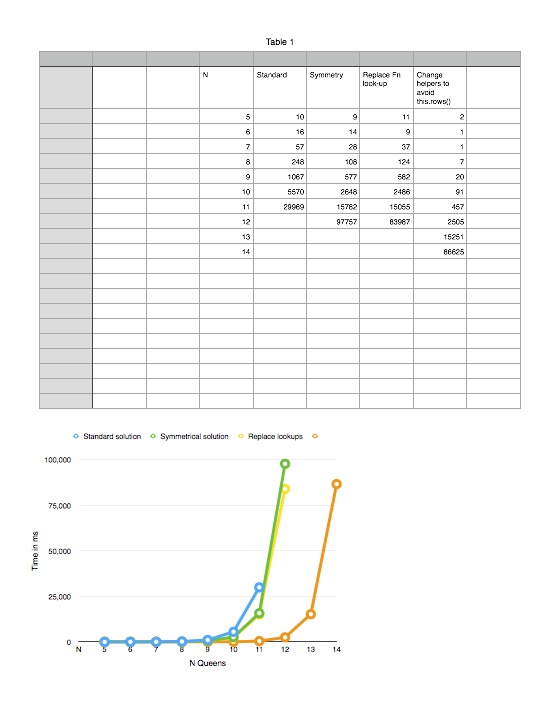
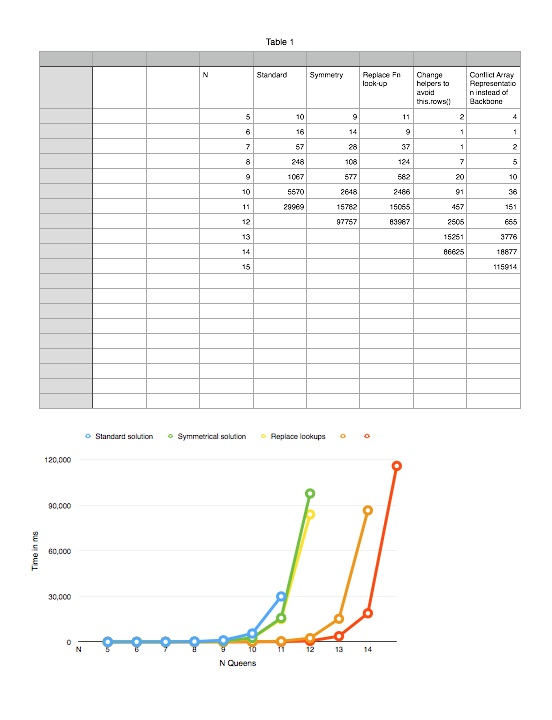
Replace matrix representation with conflict object model, remove backbone dependencies

diff --git a/src/solvers.js b/src/solvers.js
@@ -13,6 +13,36 @@
 
 // return a matrix (an array of arrays) representing a single nxn chessboard, with n rooks placed such that none of them can attack each other
 
+var myBoard = function() {
+  this.colCon = {};
+  this.majCon = {};
+  this.minCon = {};
+  this.rowCon = {};
+};
+
+myBoard.prototype.toggle = function (row, col) {
+  this.colCon[col] = !this.colCon[col];
+  this.majCon[col-row] = !this.majCon[col-row];
+  this.minCon[col+row] = !this.minCon[col+row];
+  this.rowCon[row] = !this.rowCon[row];
+};
+
+myBoard.prototype.hasRowConflictAt = function(row) {
+  return !!this.rowCon[row];
+};
+
+myBoard.prototype.hasColConflictAt = function(col) {
+  return !!this.colCon[col];
+};
+
+myBoard.prototype.hasMajorDiagonalConflictAt = function(row, col) {
+  return !!this.majCon[col-row];
+};
+
+myBoard.prototype.hasMinorDiagonalConflictAt = function(row, col) {
+  return !!this.minCon[col+row];
+};
+
 window.findNRooksSolution = function(n) {
   var solution;
 
@@ -48,7 +78,7 @@ window.findNRooksSolution = function(n) {
 window.countNRooksSolutions = function(n) {
   var solutionCount = 0;
 
-  var curBoard = new Board({'n': n});
+  var curBoard = new myBoard();
 
   var placeElemInRow = function(curCol) {
     if (curCol === n){
@@ -56,19 +86,19 @@ window.countNRooksSolutions = function(n) {
       return;
     }
     for (var curRow = 0; curRow < n; curRow++){
-      curBoard.togglePiece(curRow, curCol);
       if (!curBoard.hasRowConflictAt(curRow)){
+        curBoard.toggle(curRow, curCol);
         placeElemInRow(curCol + 1);
+        curBoard.toggle(curRow, curCol);
       }
-      curBoard.togglePiece(curRow, curCol);
     }
   };
 
   // manually loop over first column for n/2 rows
   for(var i = 0; i < Math.floor(n/2); i++){
-    curBoard.togglePiece(i, 0);
+    curBoard.toggle(i, 0);
     placeElemInRow(1);
-    curBoard.togglePiece(i, 0);
+    curBoard.toggle(i, 0);
   }
 
   // doubling to account for symmetry
@@ -77,9 +107,9 @@ window.countNRooksSolutions = function(n) {
 
     // if odd, recurse over placement in median row
     if((n % 2) === 1) {
-      curBoard.togglePiece(Math.ceil(n/2), 0);
+      curBoard.toggle(Math.ceil(n/2), 0);
       placeElemInRow(1);
-      curBoard.togglePiece(Math.ceil(n/2), 0);
+      curBoard.toggle(Math.ceil(n/2), 0);
     }
   } else {
     // special case: n === 1  --> loop over first column not initiated
@@ -131,7 +161,7 @@ window.findNQueensSolution = function(n) {
 window.countNQueensSolutions = function(n) {
   var solutionCount = 0;
 
-  var curBoard = new Board({'n': n});
+  var curBoard = new myBoard();
 
   var placeElemInRow = function(curCol) {
     if (curCol === n){
@@ -139,22 +169,22 @@ window.countNQueensSolutions = function(n) {
       return;
     }
     for (var curRow = 0; curRow < n; curRow++){
-      curBoard.togglePiece(curRow, curCol);
       if (!(
           curBoard.hasRowConflictAt(curRow)
-          || curBoard.hasMajorDiagonalConflictAt(curCol - curRow)
-          || curBoard.hasMinorDiagonalConflictAt(curRow + curCol))) {
+          || curBoard.hasMajorDiagonalConflictAt(curRow, curCol)
+          || curBoard.hasMinorDiagonalConflictAt(curRow, curCol))) {
+        curBoard.toggle(curRow, curCol);
         placeElemInRow(curCol + 1);
+        curBoard.toggle(curRow, curCol);
       }
-      curBoard.togglePiece(curRow, curCol);
     }
   };
 
   // manually loop over first column for n/2 rows
   for(var i = 0; i < Math.floor(n/2); i++){
-    curBoard.togglePiece(i, 0);
+    curBoard.toggle(i, 0);
     placeElemInRow(1);
-    curBoard.togglePiece(i, 0);
+    curBoard.toggle(i, 0);
   }
 
   // double to account for symmetry
@@ -163,9 +193,9 @@ window.countNQueensSolutions = function(n) {
 
     // if odd, place in median row of column 0 and recurse over other columns
     if((n % 2) === 1) {
-      curBoard.togglePiece(Math.ceil(n/2), 0);
+      curBoard.toggle(Math.ceil(n/2), 0);
       placeElemInRow(1);
-      curBoard.togglePiece(Math.ceil(n/2), 0);
+      curBoard.toggle(Math.ceil(n/2), 0);
     }
   } else {
     // special case: n === 1 or 0  --> loop over first column not initiated
@@ -177,7 +207,7 @@ window.countNQueensSolutions = function(n) {
 };
 
 // // Time Profiling:
-var now = new Date();
+// var now = new Date();
 
 // countNQueensSolutions(5);
 
@@ -236,3 +266,9 @@ var now = new Date();
 // countNQueensSolutions(14);
 
 // console.log('14', (new Date() - now));
+
+// now = new Date();
+
+// countNQueensSolutions(15);
+
+// console.log('15', (new Date() - now));
